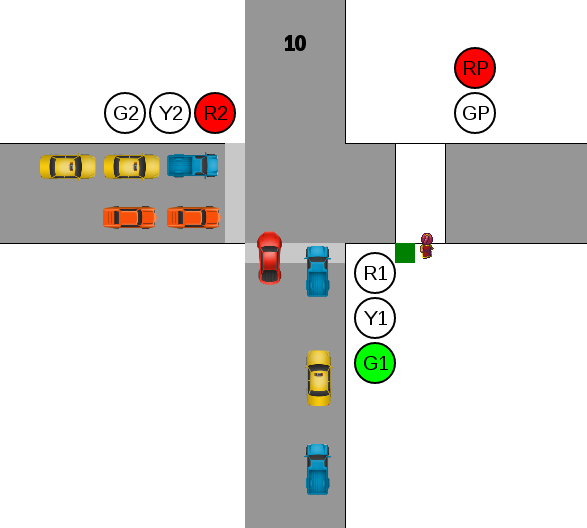
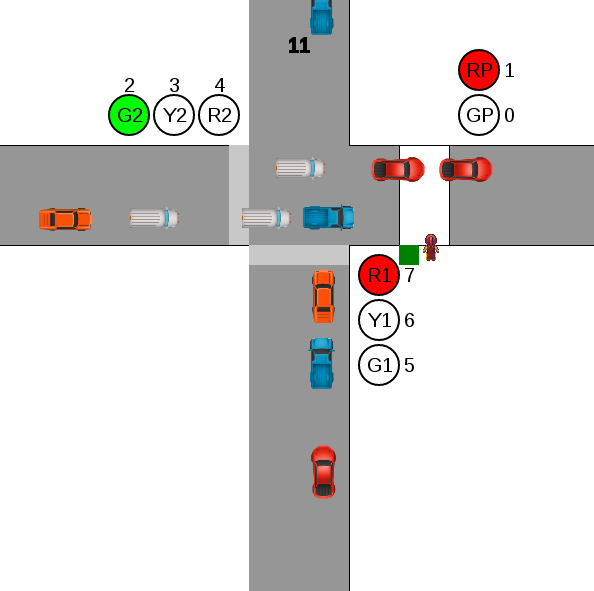
Added bit of light in the documentation

diff --git a/html/docs.html b/html/docs.html
@@ -48,13 +48,23 @@
         <p>
         <table cellspacing=0 cellpadding=2 border=1>
             <tr>
-                <th> No.</th>
-                <th colspan=8> Lights </th>
-                <th> Binary form</th>
-                <th> Decimal </th>
-                <th> Delay(ms) </th>
-                <th> Next state </th>
-                <th> Actions </th>
+                <th rowspan=2> State <br/> No.</th>
+                <th colspan=8> Lights Label and bit</th>
+                <th rowspan=2> Binary form</th>
+                <th rowspan=2> Decimal </th>
+                <th rowspan=2> Delay <br/>(ms) </th>
+                <th rowspan=2> Next state </th>
+                <th rowspan=2> Action and Comment </th>
+            </tr>
+            <tr>
+                <th> 7 </th>
+                <th> 6 </th>
+                <th> 5 </th>
+                <th> 4 </th>
+                <th> 3 </th>
+                <th> 2 </th>
+                <th> 1 </th>
+                <th> 0 </th>
             </tr>
             <tr>
                 <td> 0</td>
@@ -69,7 +79,7 @@
                 <td>10000110</td>
                 <td>134</td>
                 <td>4000</td>
-                <td>2</td>
+                <td>1</td>
                 <td>Road 1 is closed, Road 2 is opened. Pedestrains stay.</td>
             </tr>
             <tr>
@@ -85,7 +95,7 @@
                 <td>01001010</td>
                 <td>74</td>
                 <td>1000</td>
-                <td>3</td>
+                <td>2</td>
                 <td>Road 1 is closed, Road 2 is closed. Warning. Pedestrains stay.</td>
             </tr>
             <tr>
@@ -101,7 +111,7 @@
                 <td>00110010</td>
                 <td>50</td>
                 <td>4000</td>
-                <td> 4</td>
+                <td> 3</td>
                 <td>Road 1 is opened, Road 2 is closed, pedestrains stay.</td>
             </tr>
             <tr>
